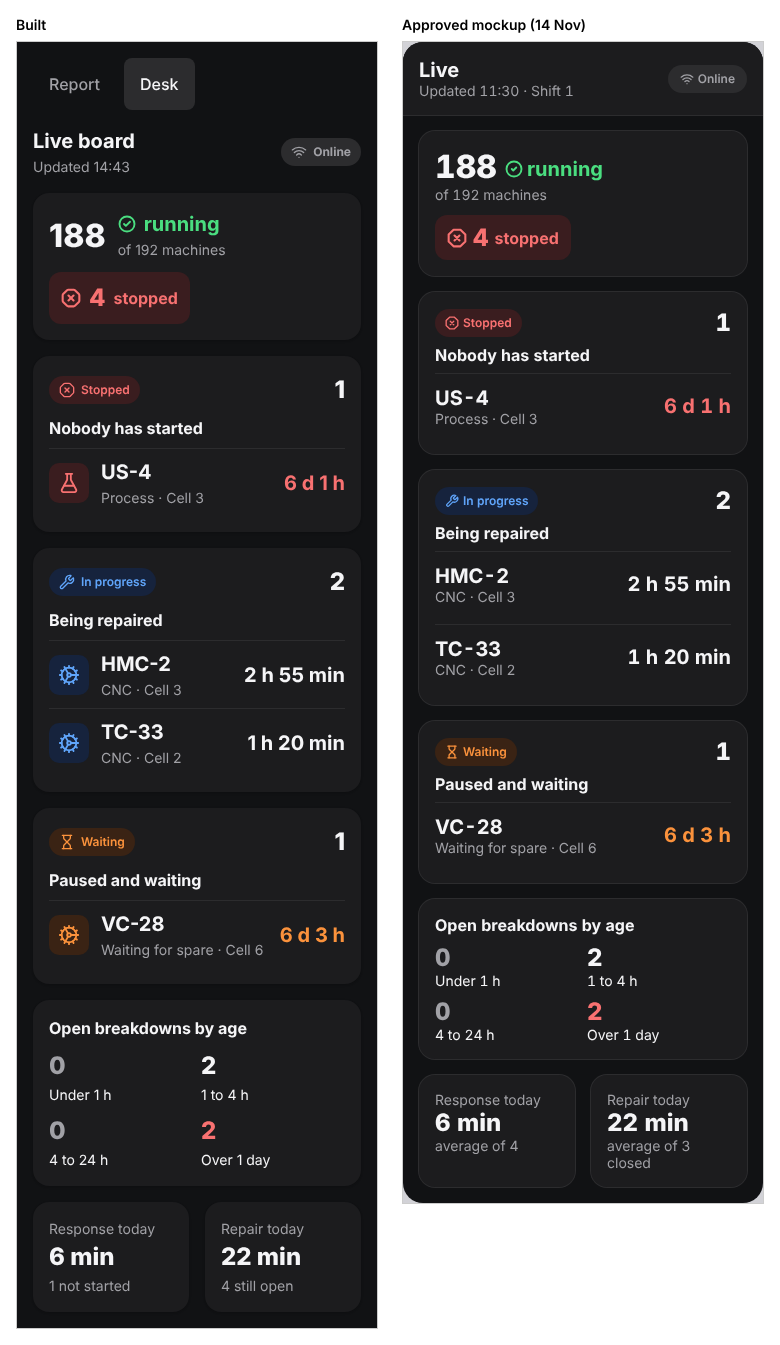
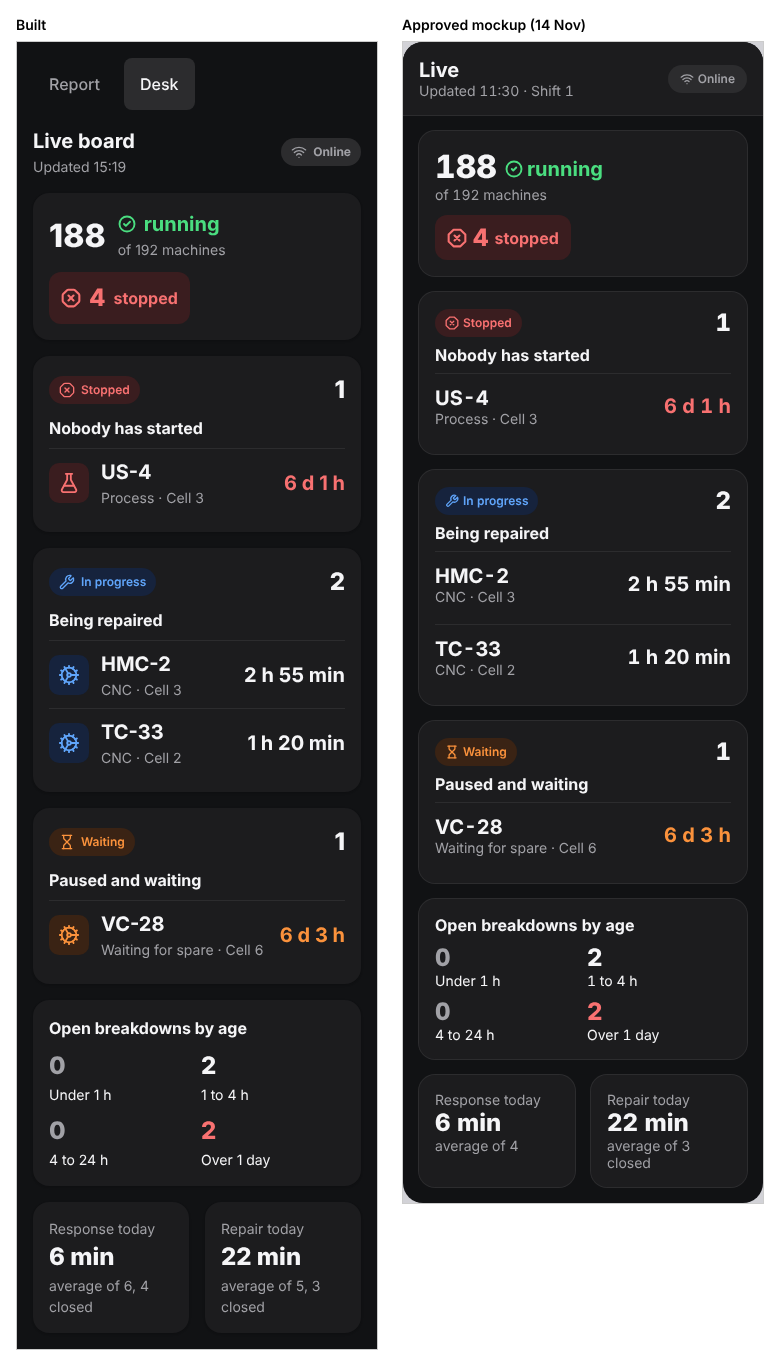
25: day-score tiles say 'average of N, M closed' from the per-average counts
Backend #243 adds responseCount/responseClosed/repairCount/repairClosed and applies
the hidden-group and off-board filter on the server, so the tiles drop the
'not started / still open' note. No note when nothing was averaged.

Claude-Session: https://claude.ai/code/session_01KEBF28GwjEXv9mZoRUHYCf

diff --git a/apps/web/e2e/board.spec.ts b/apps/web/e2e/board.spec.ts
@@ -121,6 +121,10 @@ const TODAY = {
   responseMin: 6,
   repairMin: 22,
   waitingMin: 5,
+  responseCount: 6,
+  responseClosed: 4,
+  repairCount: 5,
+  repairClosed: 3,
 };
 
 /** The day score the server sends (`GET /board/today`), replaced with fixed numbers so the tiles can be read exactly. */
@@ -144,17 +148,26 @@ test('the board shows the plant day score: response today and repair today', asy
   const response = page.getByRole('group', { name: 'Response today' });
   const repair = page.getByRole('group', { name: 'Repair today' });
   await expect(response).toContainText('6 min');
-  await expect(response).toContainText('2 not started');
+  await expect(response).toContainText('average of 6, 4 closed');
   await expect(repair).toContainText('22 min');
-  await expect(repair).toContainText('3 still open');
+  await expect(repair).toContainText('average of 5, 3 closed');
 });
 
 test('a day with nothing to average shows a dash, never 0 min', async ({ page }) => {
-  await serveToday(page, { ...TODAY, responseMin: null, repairMin: null });
+  await serveToday(page, {
+    ...TODAY,
+    responseMin: null,
+    repairMin: null,
+    responseCount: 0,
+    responseClosed: 0,
+    repairCount: 0,
+    repairClosed: 0,
+  });
   await signIn(page, 'asha');
   await openBoard(page, false);
   await expect(page.getByRole('group', { name: 'Response today' })).toContainText('—');
   await expect(page.getByRole('group', { name: 'Repair today' })).not.toContainText('0 min');
+  await expect(page.getByRole('group', { name: 'Response today' })).not.toContainText('average');
 });
 
 test('the TV shows the same two tiles beside open over 1 day', async ({ page }) => {

diff --git a/apps/web/src/screens/board/DayScore.tsx b/apps/web/src/screens/board/DayScore.tsx
@@ -1,7 +1,13 @@
+import type { TFunction } from 'i18next';
 import { useTranslation } from 'react-i18next';
 import type { BoardToday } from '../../api.js';
 import { formatMinutes } from '../../components/format.js';
 import type { Scale } from './scale.js';
+
+/** "average of 6, 4 closed": the averages include tickets still being worked, so say how many are finished. */
+function average(t: TFunction, count: number, closed: number): string | undefined {
+  return count > 0 ? t('live.today.average', { count, closed }) : undefined;
+}
 
 /**
  * The plant's day so far, as the server scored it: how long a breakdown waited for someone to start, and how long
@@ -13,12 +19,12 @@ export function DayScore({ today, scale }: { today: BoardToday | undefined; scal
     {
       label: t('live.today.response'),
       minutes: today?.responseMin,
-      note: today && t('live.today.notStarted', { count: today.notStarted }),
+      note: today && average(t, today.responseCount, today.responseClosed),
     },
     {
       label: t('live.today.repair'),
       minutes: today?.repairMin,
-      note: today && t('live.today.stillOpen', { count: today.stillOpen }),
+      note: today && average(t, today.repairCount, today.repairClosed),
     },
   ];
   return (

diff --git a/packages/shared/src/i18n/live-board.en.ts b/packages/shared/src/i18n/live-board.en.ts
@@ -17,7 +17,6 @@ export const liveBoardEn = {
   'live.ages.overDay': 'Over 1 day',
   'live.today.response': 'Response today',
   'live.today.repair': 'Repair today',
-  'live.today.notStarted': '{{count}} not started',
-  'live.today.stillOpen': '{{count}} still open',
+  'live.today.average': 'average of {{count}}, {{closed}} closed',
   'live.ages.line': '{{label}}: {{count}}',
 };

diff --git a/changes/93-board-day-score.md b/changes/93-board-day-score.md
@@ -1,1 +1,1 @@
-- The live board now shows "Response today" and "Repair today" under the open-breakdowns-by-age figures: the average minutes before someone started a breakdown, and the average minutes a repair took, for the plant's calendar day. Under each is a plain count ("2 not started", "3 still open"). A day with nothing to average shows a dash, never "0 min". On the wall TV the two tiles sit beside "Open over 1 day". The figures come from the server (`GET /api/v1/board/today`); the screen works nothing out itself.
+- The live board now shows "Response today" and "Repair today" under the open-breakdowns-by-age figures: the average minutes before someone started a breakdown, and the average minutes a repair took, for the plant's calendar day. Under each is how many it averages over and how many of those are finished ("average of 6, 4 closed"), because the averages include repairs still under way. A day with nothing to average shows a dash, never "0 min". On the wall TV the two tiles sit beside "Open over 1 day". The figures come from the server (`GET /api/v1/board/today`); the screen works nothing out itself.
